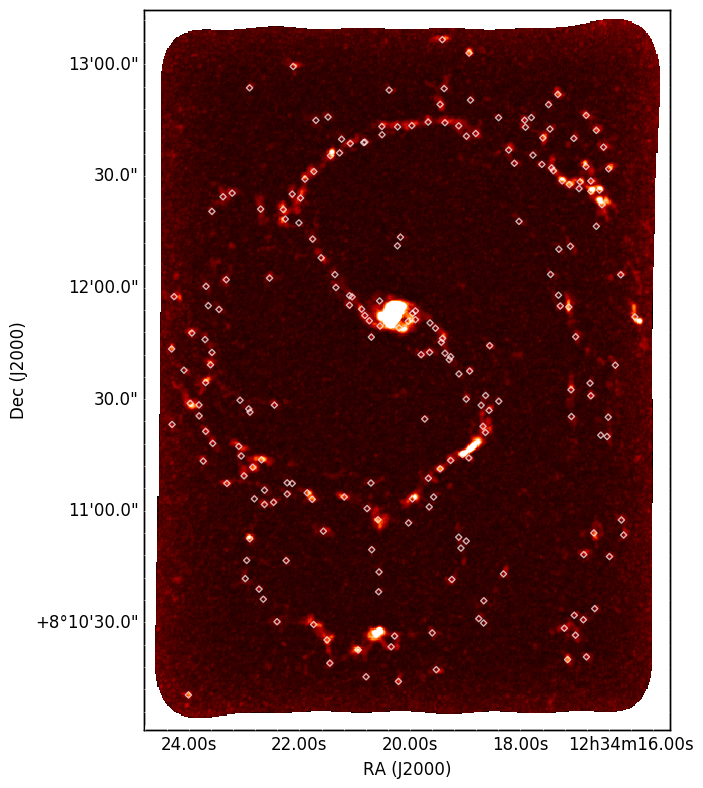
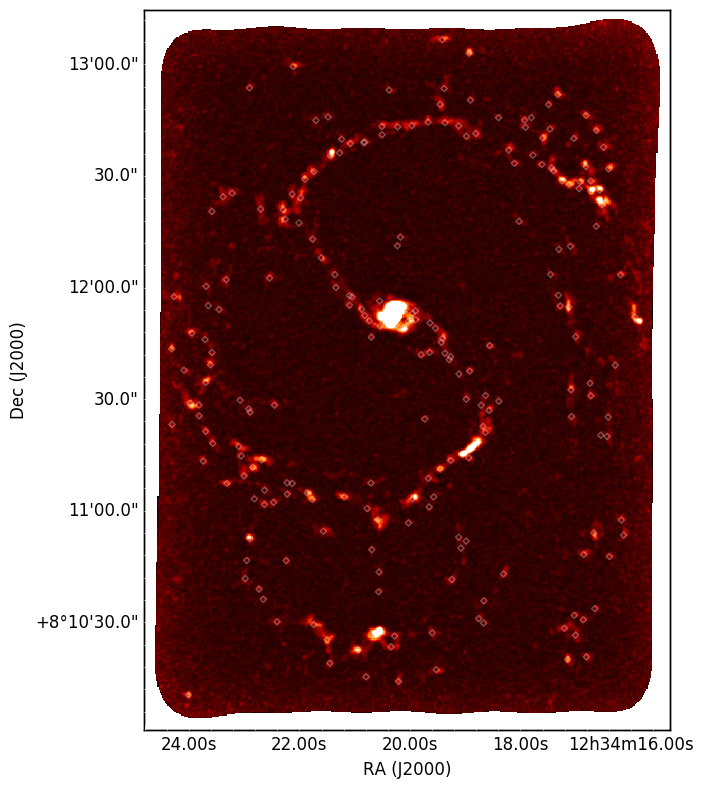
I updated some of the graphs to include in my progress report. I adjusted the alpha parameter of the GMC markers in the map images so they aren't so distracting. I am almost finished the power law code, but it is not yet complete.

diff --git a/mkgraph.py b/mkgraph.py
@@ -9,10 +9,10 @@ def graphs (galaxyname,data):
      datatable = Table.read(data)
 
      # Extract different data sets.
+     lw = datatable['VRMS_EXTRAP']
      vmass = datatable['VIRMASS_EXTRAP_DECONV']
      lmass = datatable['MASS_EXTRAP']
      radius = datatable['RADRMS_EXTRAP_DECONV']
-     lw = datatable['VRMS_EXTRAP']
 
      # Calculate the canonical values according to the Milky Way.
      mcan = 170*radius**2
@@ -26,12 +26,12 @@ def graphs (galaxyname,data):
      plt.subplot(1,3,1)
      lines = plt.loglog (lmass,vmass,lmass,lmass)
      l1,l2 = lines
-     plt.setp (l1,marker='s',markersize=5,linestyle='None')
-     plt.setp (l2,color='k',linestyle='solid',linewidth=3,alpha=0.5)
-     plt.legend ([l1,l2],[galaxyname,r'$M_{\mathrm{lum}}$'],loc=2)
+     plt.setp(l1,marker='s',markersize=5,linestyle='None')
+     plt.setp(l2,color='k',linestyle='solid',linewidth=3,alpha=0.5)
+     plt.legend([l1,l2],[galaxyname,r'$M_{\mathrm{lum}}$'],loc=2)
      plt.xlabel(r'$M_{\mathrm{lum}}\ (M_{\odot})$',fontsize=20)
      plt.ylabel(r'$M_{\mathrm{vir}}\ (M_{\odot})$',fontsize=20)
-     plt.title('Luminous Mass vs. Virial Mass for GMCs in '+galaxyname,fontsize=16)
+     plt.title('(a)',fontsize=16)
 
      # Create a subplot for the GMC luminous radius and mass.
      plt.subplot(1,3,2)
@@ -39,10 +39,10 @@ def graphs (galaxyname,data):
      l1,l2 = lines
      plt.setp(l1,marker='s',markersize=5,linestyle='None')
      plt.setp(l2,color='k',linestyle='solid',linewidth=3,alpha=0.5)
-     plt.legend ([l1,l2],[galaxyname,'Canonical Mass'],loc=2)
+     plt.legend([l1,l2],[galaxyname,'Canonical Mass'],loc=2)
      plt.xlabel(r'$R\ (\mathrm{pc})$',fontsize=20)
      plt.ylabel(r'$M_{\mathrm{lum}}\ (M_{\odot})$',fontsize=20)
-     plt.title('Radius vs. Luminous Mass for GMCs in '+galaxyname,fontsize=16)
+     plt.title('(b)',fontsize=16)
 
      # Create a subplot for the GMC radius and linewidth.
      plt.subplot(1,3,3)
@@ -50,14 +50,15 @@ def graphs (galaxyname,data):
      l1,l2 = lines
      plt.setp(l1,marker='s',markersize=5,linestyle='None')
      plt.setp(l2,color='k',linestyle='solid',linewidth=3,alpha=0.5)
-     plt.legend ([l1,l2],[galaxyname,'Canonical Linewidth'],loc=2)
+     plt.legend([l1,l2],[galaxyname,'Canonical Linewidth'],loc=2)
      plt.xlabel(r'$R\ (\mathrm{pc})$',fontsize=20)
      plt.ylabel(r'$\sigma_{v}\ (\frac{\mathrm{km}}{\mathrm{s}})$',fontsize=20)
-     plt.title('Radius vs. Linewidth for GMCs in '+galaxyname,fontsize=16)
+     plt.title('(c)',fontsize=16)
 
      # Reduce the size of the labels and save the figure
      plt.tight_layout()
      plt.savefig(galaxyname+'_trend.png')
+     plt.close()
 
 def mapgmc (galaxyname,data,imgfile):
 # This is a module to plot the location of the GMCs in a given galaxy on a map of the galaxy.
@@ -72,8 +73,8 @@ def mapgmc (galaxyname,data,imgfile):
      # Modify the FITS image file so it is compatible with APLpy
      imgdata = fits.open(imgfile)
      imgheader = imgdata[0].header
-     imgheader['NAXIS']=3
-     imgheader['NAXIS3']=1
+     imgheader['NAXIS'] = 3
+     imgheader['NAXIS3'] = 1
 
      # Load all of the data.
      datatable = Table.read(data)
@@ -85,7 +86,7 @@ def mapgmc (galaxyname,data,imgfile):
 
      # Display the image of the galaxy with markers showing the locations of the GMCs.
      img.show_colorscale(cmap='gist_heat')
-     img.show_markers(xval,yval,edgecolor='white',facecolor='none',marker='D',s=10,alpha=0.7)
+     img.show_markers(xval,yval,edgecolor='white',facecolor='none',marker='D',s=10,alpha=0.3)
 
      # Save the figure.
      img.save(galaxyname+'_map.png')
@@ -95,39 +96,39 @@ def param (galaxyname,data):
 # and linewidth on a one-parsec scale to its galactocentric radius.
 
      # import the libraries that are needed.
-     from astropy.table import Table
-     import astropy.units as u
-     from galaxies import Galaxy
-     import matplotlib.pyplot as plt
      from scipy import stats as sps
+     from galaxies import Galaxy
+     from astropy.table import Table
      import numpy as np
+     import astropy.units as u
+     import matplotlib.pyplot as plt
 
      # Load all of the data.
-     cpropstable = Table.read(data)
      gxy = Galaxy(galaxyname)
+     cpropstable = Table.read(data)
 
      # Extract different data set
-     vmass = cpropstable['VIRMASS_EXTRAP_DECONV']
-     lmass = cpropstable['MASS_EXTRAP']
-     radrms = cpropstable['RADRMS_EXTRAP_DECONV']
      lw = cpropstable['VRMS_EXTRAP']
      xval = cpropstable['XPOS']
      yval = cpropstable['YPOS']
+     vmass = cpropstable['VIRMASS_EXTRAP_DECONV']
+     lmass = cpropstable['MASS_EXTRAP']
+     radrms = cpropstable['RADRMS_EXTRAP_DECONV']
      rad = gxy.radius(ra=xval,dec=yval)
      rad = rad.to(u.kpc)
 
      # Calculate the virial parameter, surface density, and linewidth on a one-parsec scale.
+     lwo = lw/((radrms)**0.5)
      alpha = vmass/lmass
      sigma = lmass/(radrms**2)
-     lwo = lw/((radrms)**0.5)
 
      # Separate the data into bins, then calculate the mean values.
      binaxis = [0.5, 1.5, 2.5, 3.5, 4.5, 5.5, 6.5, 7.5, 8.5, 9.5, 10.5]
      bin_means,bin_edges,binnumber = sps.binned_statistic(rad,lmass,statistic='mean',bins=[0,1,2,3,4,5,6,7,8,9,10,11])
      bin_medians,bin_edges,binnumber = sps.binned_statistic(rad,lmass,statistic='median',bins=[0,1,2,3,4,5,6,7,8,9,10,11])
+     lwo_medians,bin_edges,binnumber = sps.binned_statistic(rad,lwo,statistic=np.nanmedian,bins=[0,1,2,3,4,5,6,7,8,9,10,11])
      alpha_medians,bin_edges,binnumber = sps.binned_statistic(rad,alpha,statistic=np.nanmedian,bins=[0,1,2,3,4,5,6,7,8,9,10,11])
      sigma_medians,bin_edges,binnumber = sps.binned_statistic(rad,sigma,statistic=np.nanmedian,bins=[0,1,2,3,4,5,6,7,8,9,10,11])
-     lwo_medians,bin_edges,binnumber = sps.binned_statistic(rad,lwo,statistic=np.nanmedian,bins=[0,1,2,3,4,5,6,7,8,9,10,11])
 
      # Plot the parameters with respect to the galactocentric radius.
      figure1 = plt.figure(figsize=(24,8))
@@ -137,138 +138,139 @@ def param (galaxyname,data):
      plt.yscale('log')
      plt.setp (l1,marker='D',markersize=5,linestyle='None',color='b',label='GMC')
      plt.errorbar(binaxis,alpha_medians,xerr=0.5,linestyle='None',marker='o',color='k',lw=5,alpha=0.7,label='Median')
-     plt.legend (loc=0)
+     plt.legend(loc=0)
      plt.xlabel(r'$R\ (\mathrm{kpc})$',fontsize=20)
      plt.ylabel(r'$\alpha$',fontsize=20)
-     plt.title('Virial Parameter for GMCs in '+galaxyname,fontsize=20)
+     plt.title('(a)',fontsize=20)
      
      plt.subplot(1,3,2)
      l1 = plt.plot(rad,sigma)
      plt.yscale('log')
      plt.setp (l1,marker='D',markersize=5,linestyle='None',color='b',label='GMC')
      plt.errorbar(binaxis,sigma_medians,xerr=0.5,linestyle='None',marker='o',color='k',lw=5,alpha=0.7,label='Median')
-     plt.legend (loc=0)
+     plt.legend(loc=0)
      plt.xlabel(r'$R\ (\mathrm{kpc})$',fontsize=20)
      plt.ylabel(r'$\Sigma\ (\frac{M_\mathrm{\odot}}{\mathrm{pc}^{2}})$',fontsize=20)
-     plt.title('Luminous Mass for GMCs in '+galaxyname,fontsize=20)
+     plt.title('(b)',fontsize=20)
      
      plt.subplot(1,3,3)
      l1 = plt.plot(rad,lwo)
      plt.setp (l1,marker='D',markersize=5,linestyle='None',color='b',label='GMC')
      plt.errorbar(binaxis,lwo_medians,xerr=0.5,linestyle='None',marker='o',color='k',lw=5,alpha=0.7,label='Median')
-     plt.legend (loc=0)
+     plt.legend(loc=0)
      plt.xlabel(r'$R\ (\mathrm{kpc})$',fontsize=20)
      plt.ylabel(r'$\sigma_{o}\ (\frac{\mathrm{km}}{\mathrm{s}})$',fontsize=20)
-     plt.title('Linewidth for GMCs in '+galaxyname,fontsize=20)
+     plt.title('(c)',fontsize=20)
      
      plt.tight_layout()
      plt.savefig(galaxyname+'_param.png')
+     plt.close()
 
      # Make a figure of the median mass for a given radius.
      figure2 = plt.figure(figsize=(8,8))
      
      plt.errorbar(binaxis,bin_means,xerr=0.5,linestyle='None',marker='D',color='b',label='Mean')
      plt.errorbar(binaxis,bin_medians,xerr=0.5,linestyle='None',marker='D',color='g',label='Median')
-     plt.legend (loc=0)
+     plt.legend(loc=0)
      plt.xlabel(r'$R\ (\mathrm{kpc})$',fontsize=20)
      plt.ylabel(r'$M_{\mathrm{lum}}\ (M_{\odot})$',fontsize=20)
      plt.title('GMC Mass Distribution in '+galaxyname,fontsize=20)
      
      plt.tight_layout()
      plt.savefig(galaxyname+'_dist.png')
+     plt.close()
 
 # This is some code from the powerlaw template.
-def data(galaxyname,data,div):
+def data(galaxyname,data,n_bins):
      
      #import libraries
-     import astropy
-     import astropy.table
-     import numpy as np
+     from galaxies import Galaxy
      from astropy.table import Table
      from astropy.table import Column
-     import matplotlib.pyplot as plt
+     import astropy
+     import astropy.table
      import powerlaw
-     from galaxies import Galaxy
+     import numpy as np
      import astropy.units as u
+     import matplotlib.pyplot as plt
 
      #get info about m83
-     mygalaxy=Galaxy(galaxyname)
-     print(mygalaxy)
+     mygalaxy = Galaxy(galaxyname)
+     print mygalaxy
 
      #load fits file
-     t=Table.read(data)
+     t = Table.read(data)
 
      #find cloud's galactocentric distance
-     rgal=mygalaxy.radius(ra=(t['XPOS']), dec=(t['YPOS']))
-     rgal=rgal.to(u.pc)
+     rgal = mygalaxy.radius(ra=(t['XPOS']), dec=(t['YPOS']))
+     rgal = rgal.to(u.pc)
      rpgal = np.asarray(rgal)
 
      #add those distances to the fits table
-     col_rgal=Column(name='RADIUS_PC',data=(rgal))
+     col_rgal = Column(name='RADIUS_PC',data=(rgal))
      t.add_column(col_rgal)
 
      # Sort the masses according to galactocentric radius.
+     mass = t['MASS_EXTRAP'].data
      i_sorted = np.argsort(rgal)
      rgal_sorted = np.asarray(rgal[i_sorted])
-     mass = t['MASS_EXTRAP'].data
      mass_sorted = mass[i_sorted]
 
      # Create a loop to calculate the bin boundaries.
-     totmass = np.sum(mass)/div
+     totmass = np.sum(mass)/n_bins
      edge_f = 1.1*np.max(rgal_sorted)
-     edges = np.zeros(div-1)
+     edges = np.zeros(n_bins-1)
      start = 0
-     e=0
+     e = 0
      for i in range(len(mass_sorted)):
           if np.sum(mass_sorted[start:i])>totmass:
-               edges[e]=0.5*(rgal_sorted[i]+rgal_sorted[i-1])
-               start=i
-               e=e+1
-     #edges = np.asarray(edges)
-     #edges.astype(int)
-     #print edges,edge_f
+               edges[e] = 0.5*(rgal_sorted[i]+rgal_sorted[i-1])
+               start = i
+               e = e+1
      inneredge = np.array([0, edges[:]])
      outeredge = np.array([edges[:], edge_f])
      print outeredge, inneredge
 
      # Create a template for a new FITS table.
-     column_names=['Inner edge (pc)', 'Outer edge (pc)', 'GMC index', 'R', 'p', 'Truncation mass ($M_\mathrm{\odot}$)', 'Largest cloud ($M_\mathrm{\odot}$)', '5th largest cloud ($M_\mathrm{\odot}$)']
-     column_types=['f4', 'f4', 'f4', 'f4', 'f4', 'f4', 'f4', 'f4']
-     table=Table(names=column_names, dtype=column_types)
+     column_names = ['Inner edge (pc)', 'Outer edge (pc)', 'GMC index', 'R', 'p', 'Truncation mass ($M_\mathrm{\odot}$)', 'Largest cloud ($M_\mathrm{\odot}$)', '5th largest cloud ($M_\mathrm{\odot}$)']
+     column_types = ['f4', 'f4', 'f4', 'f4', 'f4', 'f4', 'f4', 'f4']
+     table = Table(names=column_names, dtype=column_types)
 
+     # Fill the FITS table.
      for inneredge, outeredge in zip(inneredge, outeredge):
           
-         idx=np.where((t['RADIUS_PC']>=inneredge)&(t['RADIUS_PC']<outeredge))
-         mass=t['MASS_EXTRAP'][idx].data
+         idx = np.where((t['RADIUS_PC']>=inneredge)&(t['RADIUS_PC']<outeredge))
+         mass = t['MASS_EXTRAP'][idx].data
          print len(mass)
-         #don't have to create an index for the xmin mass - defined in the fit_subset
-         fit=powerlaw.Fit(mass)
-         fit_subset=powerlaw.Fit(mass, xmin=3e5)
-         R,p=fit_subset.distribution_compare('power_law', 'truncated_power_law')
+         fit = powerlaw.Fit(mass)
+         fit_subset = powerlaw.Fit(mass, xmin=3e5)
+         R,p = fit_subset.distribution_compare('power_law', 'truncated_power_law')
          table.add_row()
-         table[-1]['Inner edge (pc)']=inneredge
-         table[-1]['Outer edge (pc)']=outeredge
-         table[-1]['GMC index']=-fit_subset.alpha
-         table[-1]['R']=R
-         table[-1]['p']=p
-         table[-1]['Truncation mass ($M_\mathrm{\odot}$)']=1/fit_subset.truncated_power_law.parameter2
-         table[-1]['Largest cloud ($M_\mathrm{\odot}$)']=np.amax(mass)
-         table[-1]['5th largest cloud ($M_\mathrm{\odot}$)']=np.sort(t['MASS_EXTRAP'][idx])[-5]
+         table[-1]['R'] = R
+         table[-1]['p'] = p
+         table[-1]['GMC index'] = -fit_subset.alpha
+         table[-1]['Inner edge (pc)'] = inneredge
+         table[-1]['Outer edge (pc)'] = outeredge
+         table[-1]['Largest cloud ($M_\mathrm{\odot}$)'] = np.nanmax(mass)
+         table[-1]['Truncation mass ($M_\mathrm{\odot}$)'] = 1/fit_subset.truncated_power_law.parameter2
+         table[-1]['5th largest cloud ($M_\mathrm{\odot}$)'] = np.sort(t['MASS_EXTRAP'][idx])[-5]
 
-         print(table)
+         #print(table)
          #print(-fit.alpha, -fit_subset.alpha, R, p, 1/fit_subset.truncated_power_law.parameter2)
          
      table.write(galaxyname+'_data.fits', overwrite=True)
+     print table
 
 # This is a module to analyze whether a galaxy's GMC distribution is truncated.
 def pwrlaw(galaxyname, data):
 
-     import powerlaw
      from astropy.table import Table
-     import matplotlib.pyplot as plt
+     import powerlaw
      import numpy as np
+     import matplotlib.pyplot as plt
 
      t = Table.read(data)
+     n_bins = len(t['Inner Edge (pc)'])
      mass = t['MASS_EXTRAP'].data
      myfit = powerlaw.Fit(mass)
      R, p = myfit.distribution_compare('power_law','truncated_power_law')
@@ -280,3 +282,4 @@ def pwrlaw(galaxyname, data):
      plt.xlabel(r'$M_\mathrm{\odot}$')
      plt.ylabel('CCDF')
      plt.savefig(galaxyname+'_power_law.png')
+     plt.close()
